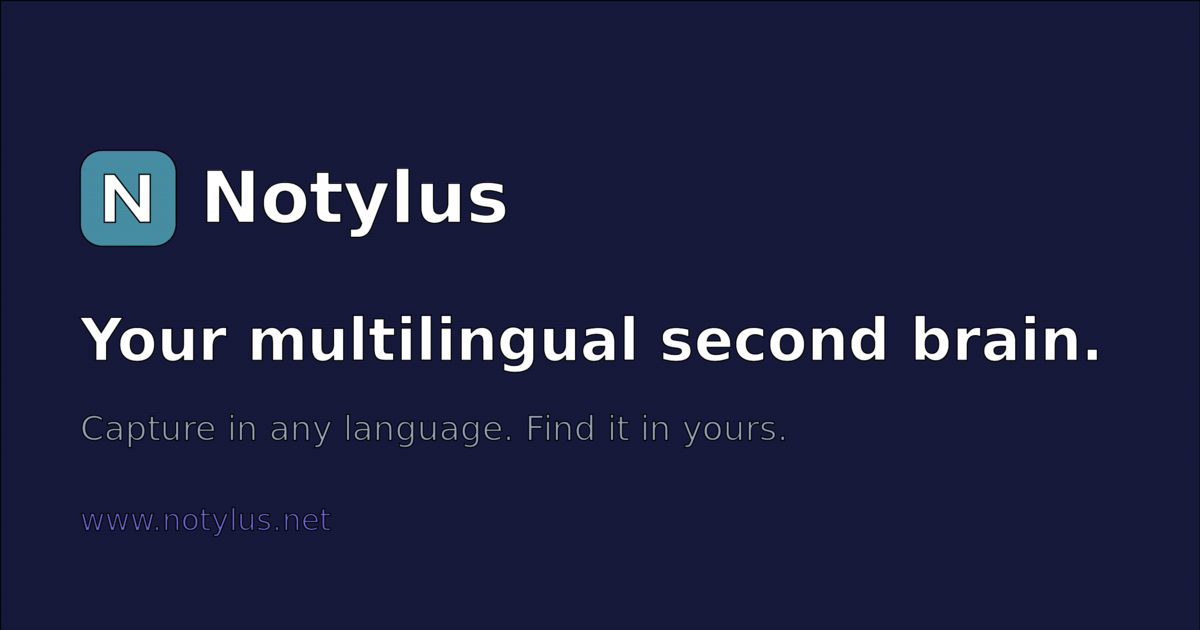
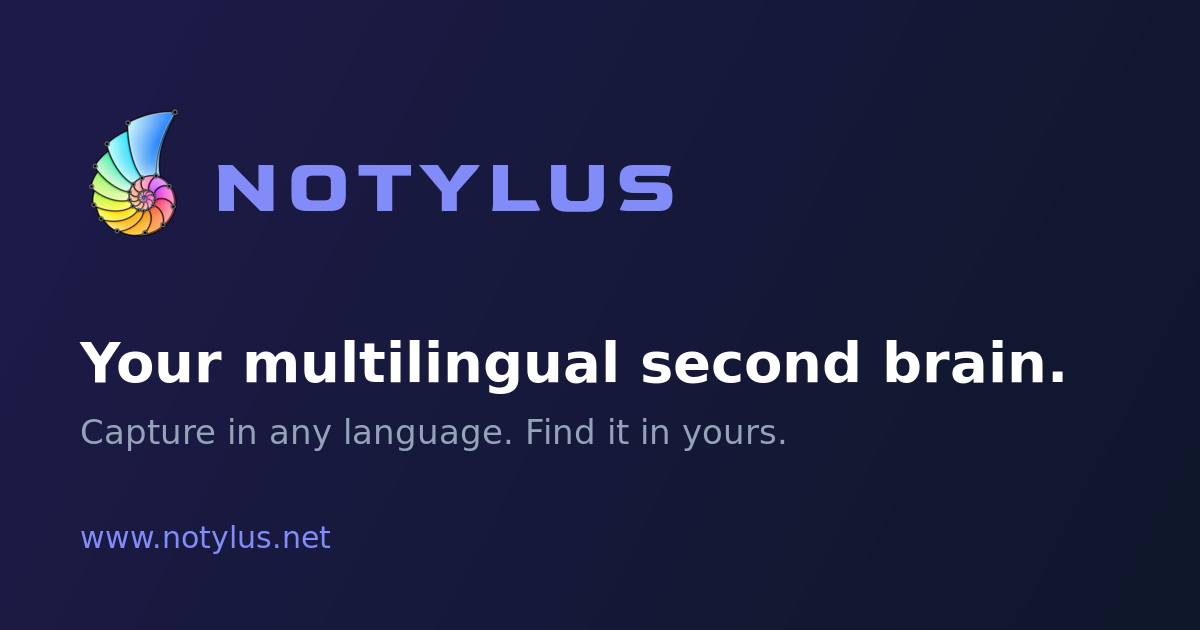
feat: use the real Notylus brand instead of the lettermark placeholder
The site shipped with a placeholder gradient tile bearing a stylized letter N.
The actual brand already existed in the app repo: a nautilus-shell mark
(public/logo.png) and the wordmark NOTYLUS set in Goldman 700, uppercase,
0.08em tracking, with a gradient that holds full accent across the leading 4
of 7 characters and then fades to 45%.

- Copied logo.png and the app's favicon set (favicon.ico, favicon-16/32,
  apple-touch-icon, android-chrome-192/512) into public/; deleted logo.svg and
  favicon.svg. logo.png is downscaled to 256 px here -- the canonical
  1122x1402 original stays in the app repo, and shipping it as-is put a 1.1 MB
  PNG in the header.
- Loaded Goldman 700 from Google Fonts and applied the app's exact wordmark
  treatment in the header (with the gradient) and footer (plain white, matching
  the weight the footer already had).
- Regenerated og-image.png with the nautilus mark and the Goldman wordmark; the
  SVG source now references logo.png and names Goldman, neither of which
  ImageMagick renders, so CLAUDE.md documents compositing the PNG directly
  instead of converting the SVG.

The logo is not square (205x256 after downscale), so it is sized h-N w-auto
rather than w-N h-N, which would squash it.

The tp_logged_in no-flicker script and the Sign In / Back to App swap are
untouched. npm run build passes.

diff --git a/CLAUDE.md b/CLAUDE.md
@@ -76,21 +76,55 @@ never sees the wrong label flash. **This only works once the app sets that
 cookie on `.notylus.net`** as well as `.translitpro.com`; until then logged-in
 visitors just see “Sign In”, which still works.
 
+### Brand assets
+
+The mark is the **nautilus shell** (`public/logo.png`), and the wordmark is
+"NOTYLUS" set in the Google Font **Goldman** 700, uppercase, `letter-spacing:
+0.08em`, with a horizontal gradient that stays at full accent across the leading
+4 of 7 characters ("NOTY") and then fades to 45%. All of that mirrors the app
+exactly — see `TITLE_FONT_FAMILY` / `TITLE_EMPHASIS_LENGTH` in the main repo's
+`src/components/Header.tsx` and the `.sp-title` rule in its `index.html`.
+
+`logo.png` and the favicon set (`favicon.ico`, `favicon-16x16.png`,
+`favicon-32x32.png`, `apple-touch-icon.png`, `android-chrome-*.png`) are copied
+from the main repo's `public/`. `logo.png` is downscaled to 256 px here — the
+canonical 1122×1402 original stays in the app repo, and shipping it as-is put a
+1.1 MB PNG in the header. Note it is **not square** (205×256 after the
+downscale), so size it with `h-N w-auto`, never `w-N h-N`.
+
+Do not reintroduce a lettermark placeholder. Fix the logo in the app repo first,
+then re-copy.
+
 ### Social card
 
 `public/og-image.png` is what the meta tags point at — social scrapers reject
 relative URLs and none of them render SVG, so `BaseLayout.astro` resolves it to
 an absolute URL against `Astro.site`. `public/og-image.svg` is the editable
-source; regenerate the PNG after changing it:
+source. It references `logo.png` via `<image>` and names Goldman for the
+wordmark, neither of which ImageMagick's SVG renderer handles, so the PNG is
+composited directly instead of converted from the SVG — keep the two in sync by
+hand:
 
 ```bash
-convert -background none -density 200 public/og-image.svg -resize 1200x630 \
-  public/og-image.png
+curl -s "$(curl -s 'https://fonts.googleapis.com/css2?family=Goldman:wght@700' \
+  -H 'User-Agent: Mozilla/5.0' | grep -o 'https://[^)]*\.ttf' | tail -1)" \
+  -o /tmp/Goldman-Bold.ttf
+convert -size 1200x630 -define gradient:direction=NorthWest \
+  gradient:'#0f172a-#1e1b4b' /tmp/og-bg.png
+convert /tmp/og-bg.png \
+  \( public/logo.png -resize x140 \) -gravity NorthWest -geometry +80+108 -composite \
+  -font /tmp/Goldman-Bold.ttf -pointsize 78 -fill '#818cf8' -kerning 6 -annotate +212+140 'NOTYLUS' \
+  -font DejaVu-Sans-Bold -pointsize 56 -fill '#ffffff' -kerning 0 -annotate +80+330 'Your multilingual second brain.' \
+  -font DejaVu-Sans -pointsize 34 -fill '#94a3b8' -annotate +80+412 'Capture in any language. Find it in yours.' \
+  -font DejaVu-Sans -pointsize 30 -fill '#818cf8' -annotate +80+520 'www.notylus.net' \
+  -depth 8 -strip public/og-image.png
 ```
 
-The SVG uses a single `font-family="DejaVu Sans"` deliberately: ImageMagick's
-SVG renderer reads only the first family in a list and fails on a comma-separated
-stack, silently dropping every text element from the PNG.
+With `gravity NorthWest`, `-annotate +x+y` places the **top** of the em box at
+`y`, not the baseline — which is why the wordmark's `y` is ~40 px above the
+logo's. Any `font-family` passed to ImageMagick must be a single family: its SVG
+renderer reads only the first entry in a comma-separated stack and silently
+drops every text element from the output.
 
 ### Generated files
 
